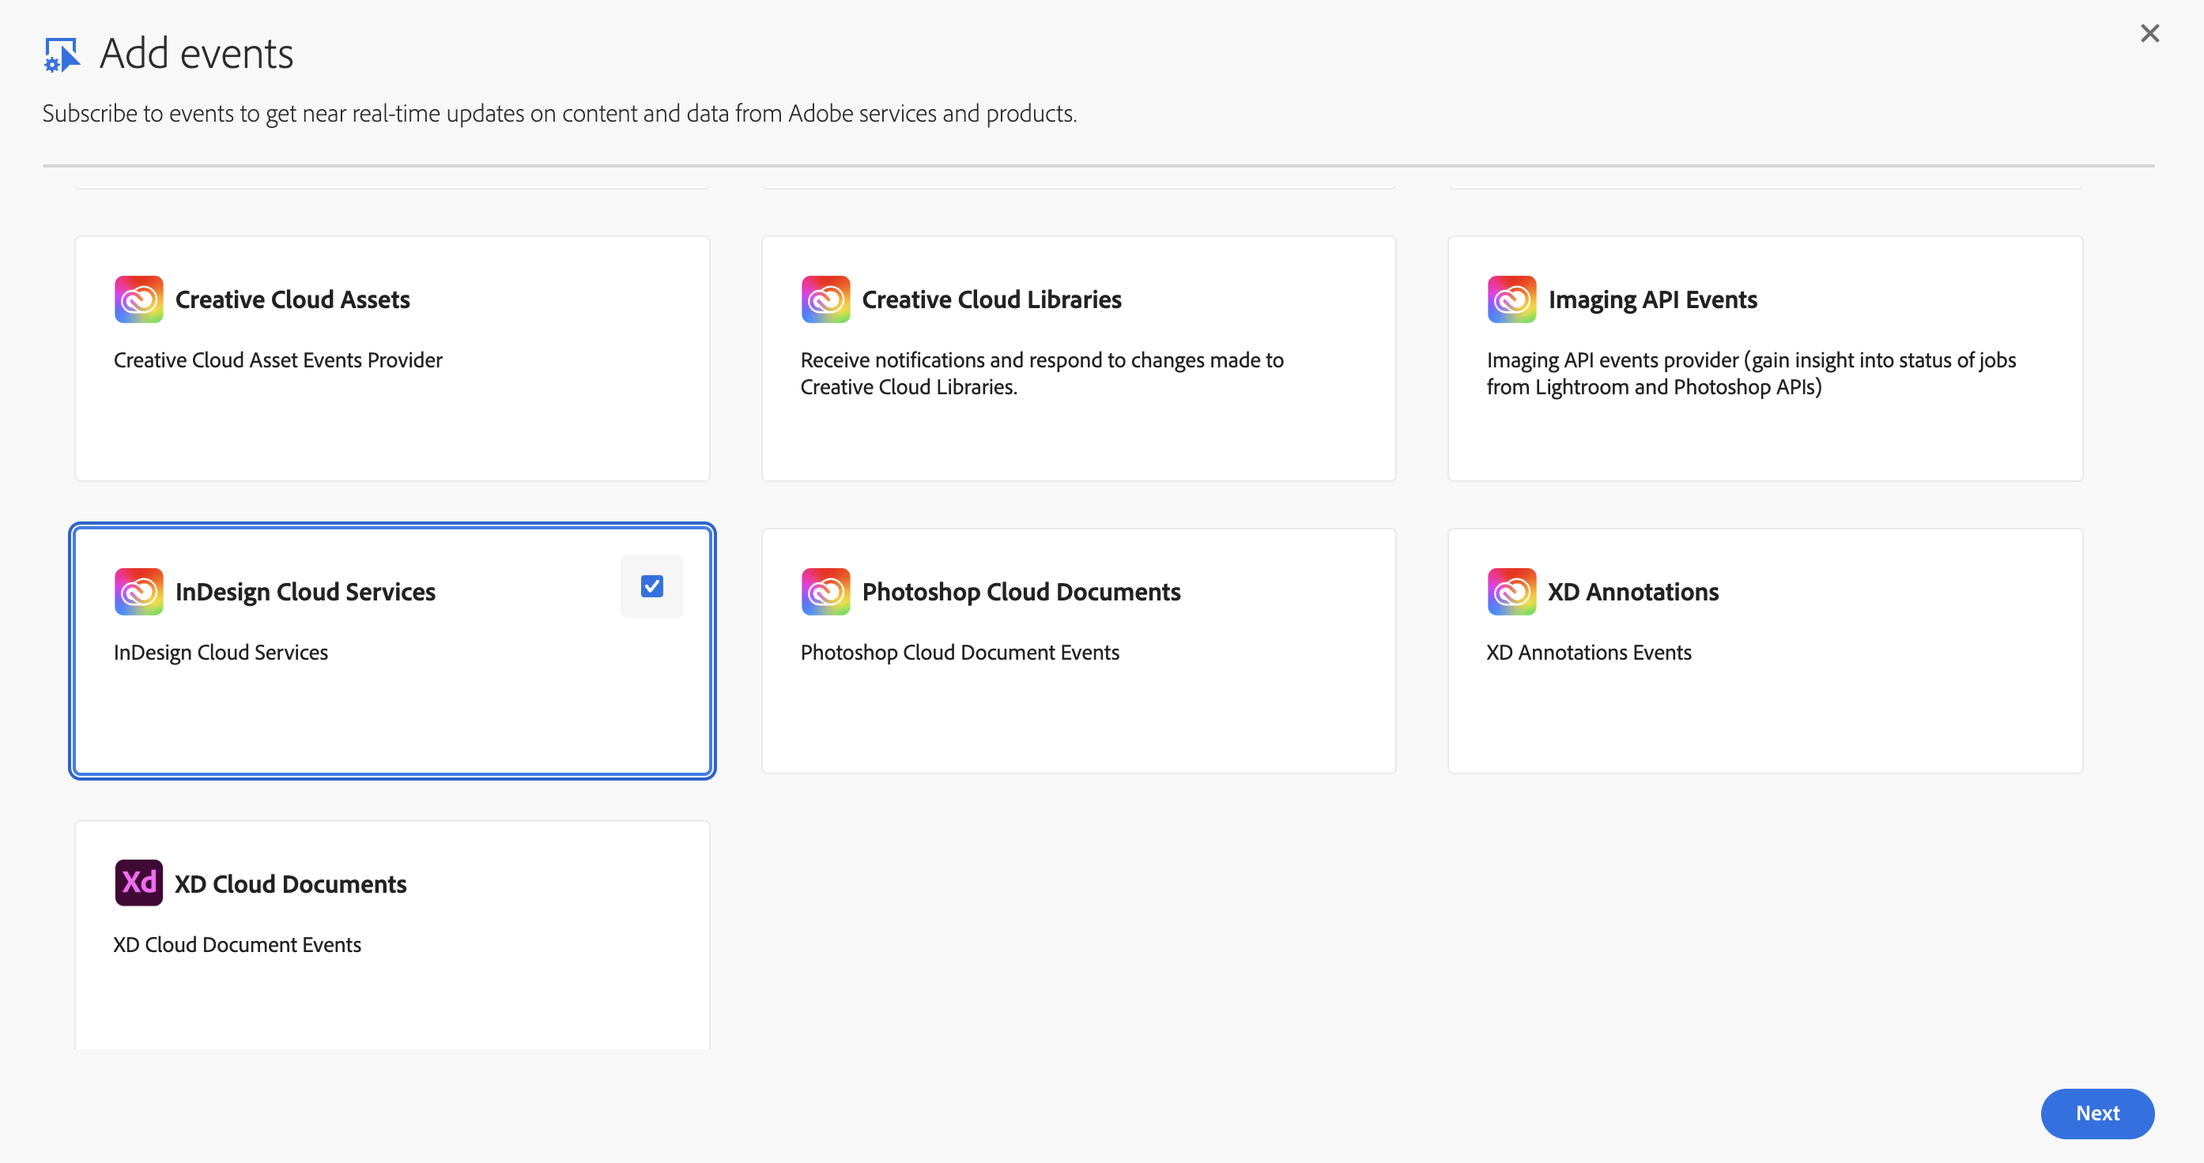
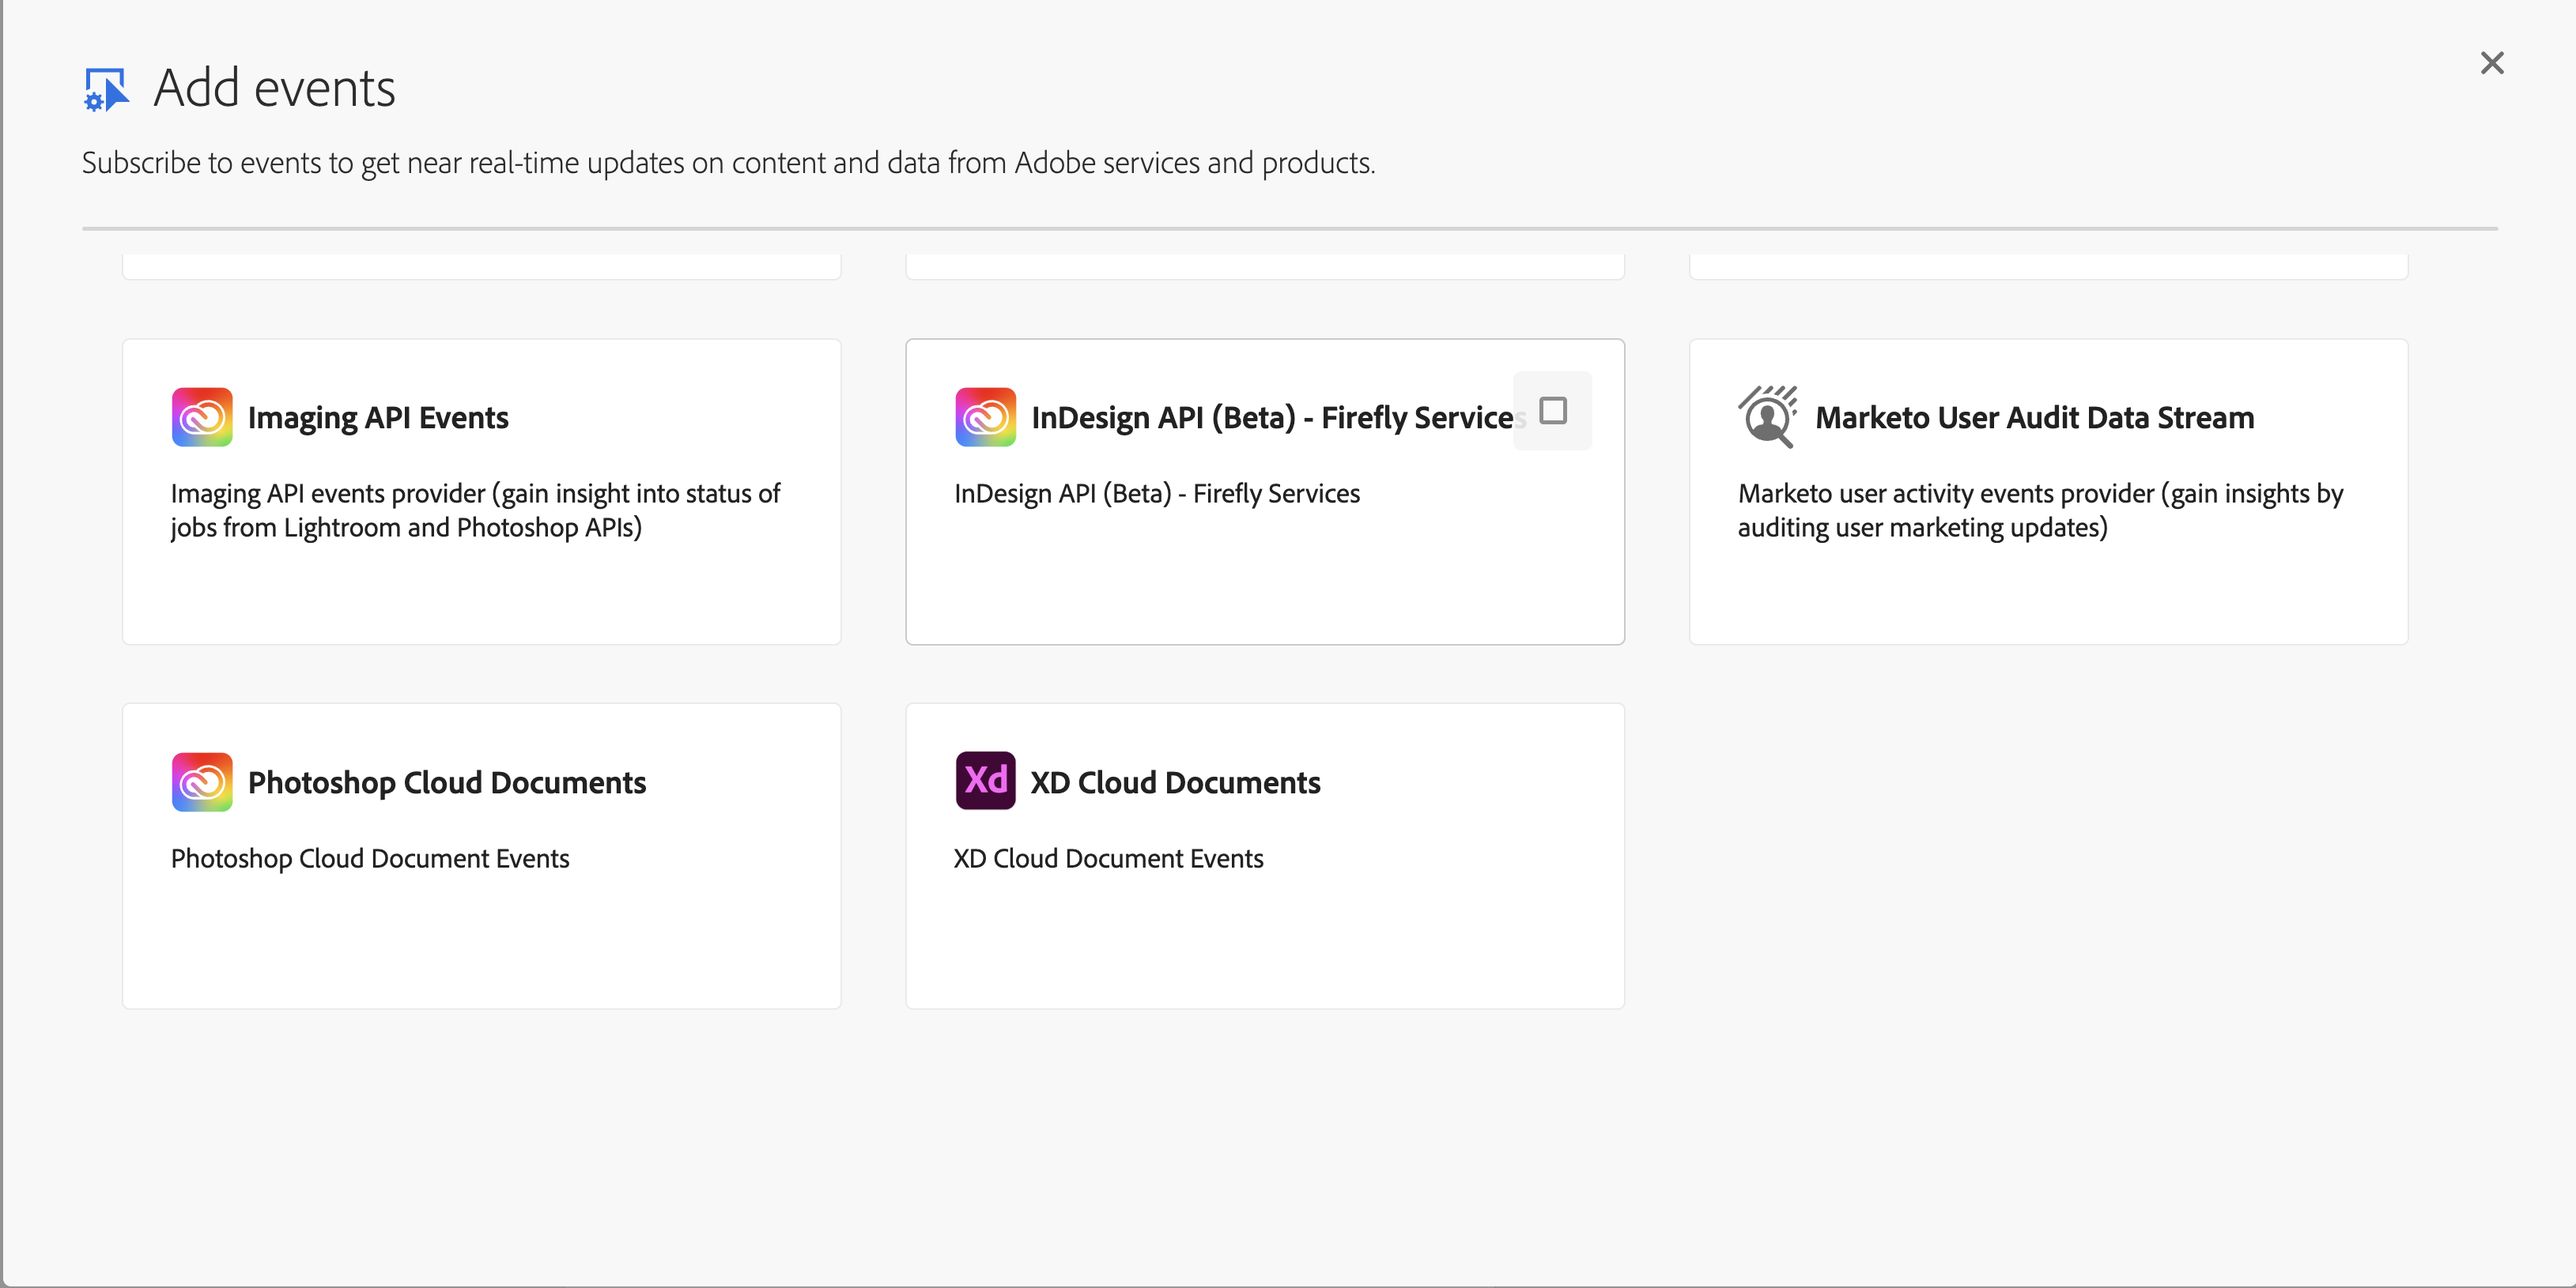
Idcs (#148)
* Updating References and Fixing Spelling Error

* Addressing Comments and updated the image

diff --git a/src/pages/guides/using/idcs/idcs-events-data-stream-setup.md b/src/pages/guides/using/idcs/idcs-events-data-stream-setup.md
@@ -1,18 +1,18 @@
 ---
-title: Setting up IDCS Events Data Stream with Adobe I/O Events
+title: Setting Up InDesign APIs (Beta) - Firefly Services Events Data Stream with Adobe I/O Events
 ---
 
-# Setting up InDesign Cloud Services User Events Stream with Adobe I/O Events
+# Setting up InDesign APIs User Events Stream with Adobe I/O Events
 
-These instructions describe how to set up and get started using Adobe I/O Events for IDCS user driven job processing events. You can use Adobe I/O for streaming IDCS job processing events such as the downloading of assets, engine processing, uploading of assets etc.
+These instructions describe how to set up and get started using Adobe I/O Events for InDesign APIs user driven job processing events. You can use Adobe I/O for streaming InDesign APIs job processing events such as the downloading of assets, engine processing, uploading of assets etc.
 
 ## Introduction
 
-IDCS events provide all the job processing details, similar to those shown in the sync status calls of InDesign Cloud Services APIs. However, IDCS events are more comprehensive and real-time, unlike the sync status calls which only include "not-started," "running," "completed," and "failed" statuses.
+InDesign APIs events provide all the job processing details, similar to those shown in the status calls of InDesign APIs. However, InDesign APIs events are more comprehensive and real-time, unlike the status calls which only include "not-started," "running," "completed," and "failed" statuses.
 
-## Setup events browsing/listning in IDCS
+## Setup events browsing/listening in InDesign APIs
 
-InDesign cloud services is currently a Beta Product and thus cannot be enabled without a PreRelease agreement. After a PreRelease agreement is in place, you should be able to see InDesign cloud services events tile in developer console.
+InDesign APIs are currently in Beta thus cannot be enabled without a PreRelease agreement. After a PreRelease agreement is in place, you should be able to see InDesign APIs (Beta) - Firefly Services events tile in developer console.
 
 ## Setup Adobe I/O
 
@@ -33,7 +33,7 @@ For basic instructions for this use case, starting from [developer.adobe.com/con
 - Filter by `Creative Cloud`
   ![Filter Selection](../../img/events_idcs_03.png "Filter by Creative Cloud")
 
-- Select `Select InDesign Cloud Services`
+- Select `Select InDesign APIs (Beta) - Firefly Services`
 
   ![Provider selection](../../img/events_idcs_04.png "Select event provider")
 
@@ -189,9 +189,9 @@ type | Type of event used for event subscription routing
 source | Context in which an event happened
 time | Timestamp of the completion of the action
 data | Event data object
-jobID | ID of the JOB in IDCS
-timesamp | Time stamp in ISO 8601 format when event was triggered
-state | Tells what this event represent in the sequence of JOB execution
+jobID | ID of the JOB
+timestamp | Time stamp in ISO 8601 format when event was triggered
+state | Tells what this event represents in the sequence of JOB execution
 
 ### Event List
 
@@ -201,18 +201,18 @@ Event state | Description
 --- | ---
 QUEUED | The job is not yet running
 ASSETS_DOWNLOAD_STARTED | Downloading has started for assets required to run this job
-ASSET_DOWNLOAD_STARTED | Emmited for individual assets, once for each asset that is downloaded
+ASSET_DOWNLOAD_STARTED | Emitted for individual assets, once for each asset that is downloaded
 ASSET_SCANNING_STARTED | Scanning the downloaded asset
-ASSET_DOWNLOAD_COMPLETED | Downloading of an individual asset is comepleted
-ASSET_SCANNING_COMPLETED | Scanning of an individual asset is comepleted
+ASSET_DOWNLOAD_COMPLETED | Downloading of an individual asset is completed
+ASSET_SCANNING_COMPLETED | Scanning of an individual asset is completed
 ASSET_DOWNLOAD_FAILED | Individual downloading of an asset has failed
 ASSET_SCANNING_FAILED | Individual scanning of an asset has failed
-ASSETS_DOWNLOAD_COMPLETED | Downloading of all assets is comepleted
+ASSETS_DOWNLOAD_COMPLETED | Downloading of all assets is completed
 ENGINE_PROCESSING_STARTED | The job was handed over to engine to be processed
-RUNNING | Engine is still working on the job
-ENGINE_PROCESSING_COMPLETED | Engine has completed the capability execution
+RUNNING | The Engine is still working on the job
+ENGINE_PROCESSING_COMPLETED | The Engine has completed the capability execution
 ASSETS_UPLOAD_STARTED | Capability generated asset upload started
-ASSET_UPLOAD_STARTED | Emmited for individual asset upload, once for each asset that starts uploading
+ASSET_UPLOAD_STARTED | Emitted for individual asset upload, once for each asset that starts uploading
 ASSET_UPLOAD_COMPLETED | Capability generated asset upload completed
 ASSET_UPLOAD_FAILED | One or more capability generated asset upload failed
 ASSETS_UPLOAD_COMPLETED | All asset uploading is completed
